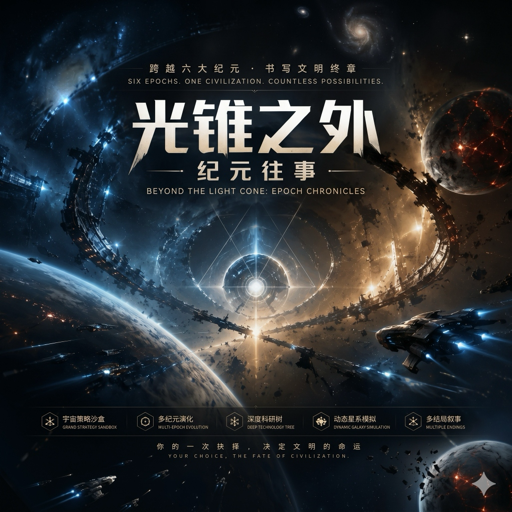
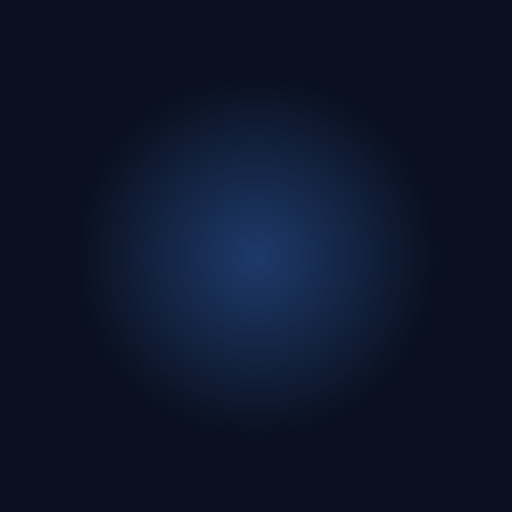
Deploying to gh-pages from @ elyseeJuly/beyond-the-light-cone@91920532e7f483017dd452cfa7e084a50df2c527 🚀

diff --git a/sw.js b/sw.js
@@ -1,3 +1,3 @@
-if(!self.define){let e,s={};const n=(n,i)=>(n=new URL(n+".js",i).href,s[n]||new Promise(s=>{if("document"in self){const e=document.createElement("script");e.src=n,e.onload=s,document.head.appendChild(e)}else e=n,importScripts(n),s()}).then(()=>{let e=s[n];if(!e)throw new Error(`Module ${n} didn’t register its module`);return e}));self.define=(i,o)=>{const a=e||("document"in self?document.currentScript.src:"")||location.href;if(s[a])return;let t={};const r=e=>n(e,a),l={module:{uri:a},exports:t,require:r};s[a]=Promise.all(i.map(e=>l[e]||r(e))).then(e=>(o(...e),t))}}define(["./workbox-2498e5ff"],function(e){"use strict";e.setCacheNameDetails({prefix:"beyond-light-cone-v1.0.0"}),self.addEventListener("message",e=>{e.data&&"SKIP_WAITING"===e.data.type&&self.skipWaiting()}),e.precacheAndRoute([{url:"index.html",revision:"9b0e23fb8a8680ef37a0b0f502cb0cbb"},{url:"asset_manifest.json",revision:"4b10383fab0e4980a9dbf5aca6cbf31e"},{url:"assets/workbox-window.prod.es5-DGMtIXHc.js",revision:null},{url:"assets/vendor-react-Dv8d35vz.js",revision:null},{url:"assets/vendor-icons-Dkt2zkTv.js",revision:null},{url:"assets/ui-modals-CgLxES0I.js",revision:null},{url:"assets/ui-endings-CYts6TI-.js",revision:null},{url:"assets/rolldown-runtime-BYbx6iT9.js",revision:null},{url:"assets/index-Yih_2jaT.js",revision:null},{url:"assets/index-B_sNKdY_.css",revision:null},{url:"assets/game-core-BbxqVg0z.js",revision:null},{url:"assets/OrientationPrompt-BCrD_86Z.js",revision:null},{url:"icons/apple-touch-icon.png",revision:"b98d0f6db14750b5ccedf787088af9e2"},{url:"icons/icon-192x192.png",revision:"04700990018fe7ee998299b627d1961d"},{url:"icons/icon-512x512.png",revision:"ea86f2d107baab135e2c5a376796ec2f"},{url:"manifest.webmanifest",revision:"2351d4b2a9852316bdc5514b0a8675a8"}],{}),e.cleanupOutdatedCaches(),e.registerRoute(new e.NavigationRoute(e.createHandlerBoundToURL("index.html"))),e.registerRoute(/\/images\/.*\.(png|webp|jpg|jpeg|gif)/i,new e.CacheFirst({cacheName:"exp-images",plugins:[new e.ExpirationPlugin({maxEntries:200,maxAgeSeconds:7776e3})]}),"GET"),e.registerRoute(/\/audio\/.*\.(mp3|ogg|wav)/i,new e.StaleWhileRevalidate({cacheName:"exp-audio",plugins:[new e.ExpirationPlugin({maxEntries:50,maxAgeSeconds:7776e3})]}),"GET"),e.registerRoute(/\/fonts\/.*/i,new e.CacheFirst({cacheName:"exp-fonts",plugins:[new e.ExpirationPlugin({maxEntries:10,maxAgeSeconds:31536e3})]}),"GET"),e.registerRoute(/\/asset_manifest\.json/i,new e.NetworkFirst({cacheName:"patch-manifest",plugins:[new e.ExpirationPlugin({maxEntries:1,maxAgeSeconds:86400})]}),"GET"),e.registerRoute(/\/patches\/.*\.json/i,new e.NetworkFirst({cacheName:"patch-files",plugins:[new e.ExpirationPlugin({maxEntries:20,maxAgeSeconds:604800})]}),"GET"),e.registerRoute(/^https:\/\/fonts\.(googleapis|gstatic)\.com\/.*/i,new e.CacheFirst({cacheName:"google-fonts",plugins:[new e.ExpirationPlugin({maxEntries:10,maxAgeSeconds:31536e3})]}),"GET")});
+if(!self.define){let e,s={};const n=(n,i)=>(n=new URL(n+".js",i).href,s[n]||new Promise(s=>{if("document"in self){const e=document.createElement("script");e.src=n,e.onload=s,document.head.appendChild(e)}else e=n,importScripts(n),s()}).then(()=>{let e=s[n];if(!e)throw new Error(`Module ${n} didn’t register its module`);return e}));self.define=(i,o)=>{const t=e||("document"in self?document.currentScript.src:"")||location.href;if(s[t])return;let r={};const a=e=>n(e,t),l={module:{uri:t},exports:r,require:a};s[t]=Promise.all(i.map(e=>l[e]||a(e))).then(e=>(o(...e),r))}}define(["./workbox-2498e5ff"],function(e){"use strict";e.setCacheNameDetails({prefix:"beyond-light-cone-v1.0.0"}),self.addEventListener("message",e=>{e.data&&"SKIP_WAITING"===e.data.type&&self.skipWaiting()}),e.precacheAndRoute([{url:"index.html",revision:"9b0e23fb8a8680ef37a0b0f502cb0cbb"},{url:"asset_manifest.json",revision:"7eedd7d48b6a90003f9552223a0b7663"},{url:"assets/workbox-window.prod.es5-DGMtIXHc.js",revision:null},{url:"assets/vendor-react-Dv8d35vz.js",revision:null},{url:"assets/vendor-icons-Dkt2zkTv.js",revision:null},{url:"assets/ui-modals-CgLxES0I.js",revision:null},{url:"assets/ui-endings-CYts6TI-.js",revision:null},{url:"assets/rolldown-runtime-BYbx6iT9.js",revision:null},{url:"assets/index-Yih_2jaT.js",revision:null},{url:"assets/index-B_sNKdY_.css",revision:null},{url:"assets/game-core-BbxqVg0z.js",revision:null},{url:"assets/OrientationPrompt-BCrD_86Z.js",revision:null},{url:"icons/apple-touch-icon.png",revision:"b98d0f6db14750b5ccedf787088af9e2"},{url:"icons/icon-192x192.png",revision:"b9b8e85df9524b09fc08471060cc398d"},{url:"icons/icon-512x512.png",revision:"8dc288f012c7a756dd7d4f9e17857650"},{url:"manifest.webmanifest",revision:"2351d4b2a9852316bdc5514b0a8675a8"}],{}),e.cleanupOutdatedCaches(),e.registerRoute(new e.NavigationRoute(e.createHandlerBoundToURL("index.html"))),e.registerRoute(/\/images\/.*\.(png|webp|jpg|jpeg|gif)/i,new e.CacheFirst({cacheName:"exp-images",plugins:[new e.ExpirationPlugin({maxEntries:200,maxAgeSeconds:7776e3})]}),"GET"),e.registerRoute(/\/audio\/.*\.(mp3|ogg|wav)/i,new e.StaleWhileRevalidate({cacheName:"exp-audio",plugins:[new e.ExpirationPlugin({maxEntries:50,maxAgeSeconds:7776e3})]}),"GET"),e.registerRoute(/\/fonts\/.*/i,new e.CacheFirst({cacheName:"exp-fonts",plugins:[new e.ExpirationPlugin({maxEntries:10,maxAgeSeconds:31536e3})]}),"GET"),e.registerRoute(/\/asset_manifest\.json/i,new e.NetworkFirst({cacheName:"patch-manifest",plugins:[new e.ExpirationPlugin({maxEntries:1,maxAgeSeconds:86400})]}),"GET"),e.registerRoute(/\/patches\/.*\.json/i,new e.NetworkFirst({cacheName:"patch-files",plugins:[new e.ExpirationPlugin({maxEntries:20,maxAgeSeconds:604800})]}),"GET"),e.registerRoute(/^https:\/\/fonts\.(googleapis|gstatic)\.com\/.*/i,new e.CacheFirst({cacheName:"google-fonts",plugins:[new e.ExpirationPlugin({maxEntries:10,maxAgeSeconds:31536e3})]}),"GET")});
 //# sourceMappingURL=sw.js.map
 //# sourceMappingURL=sw.js.map